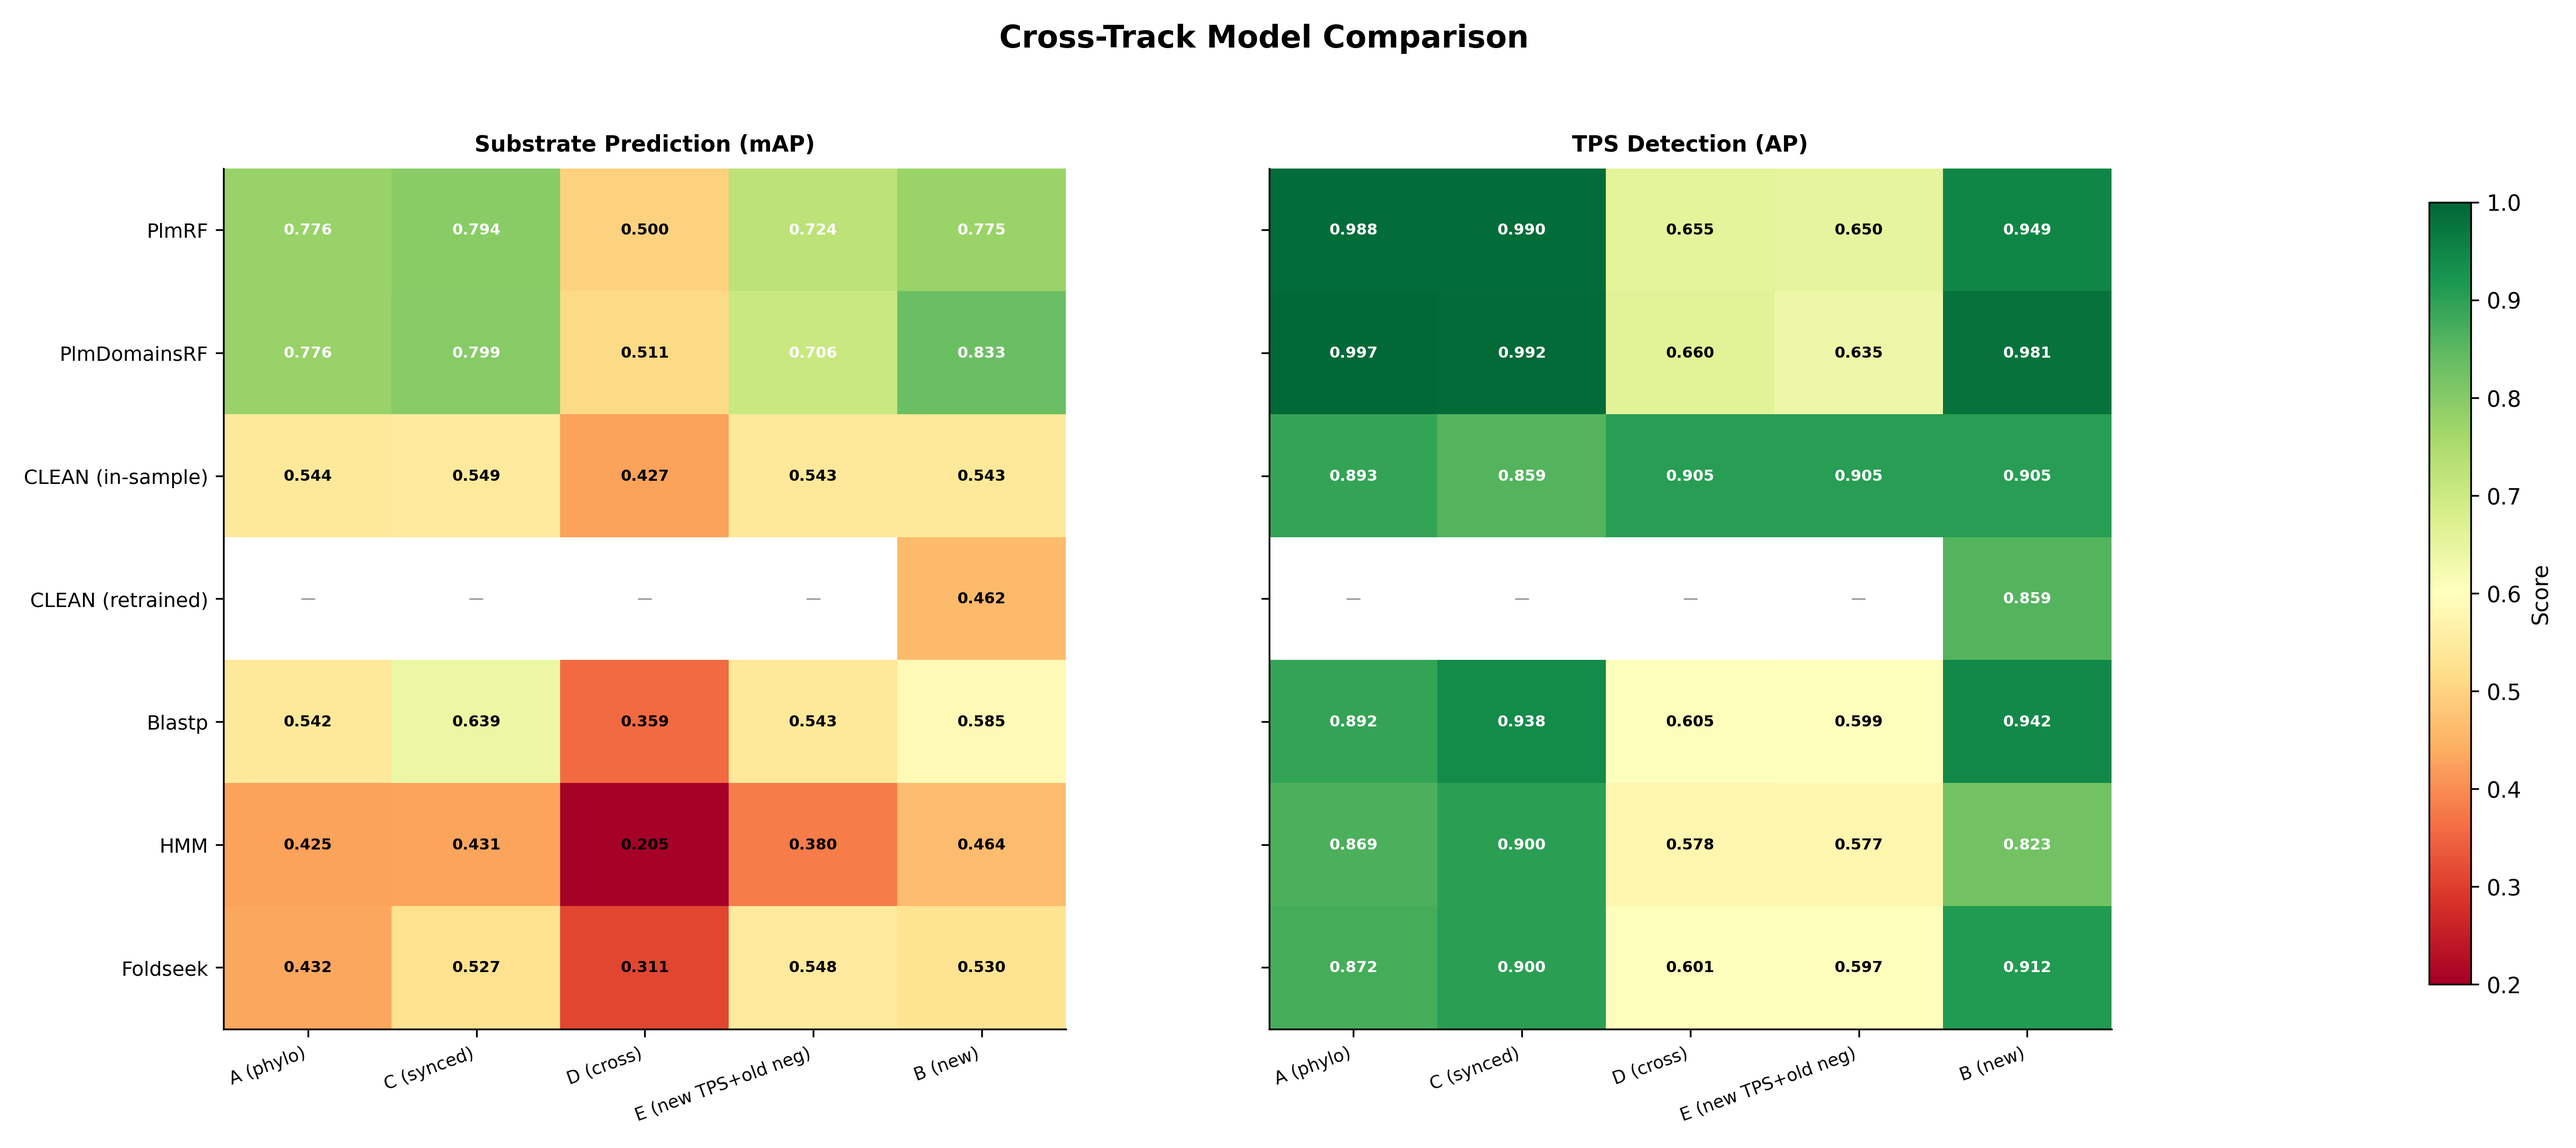
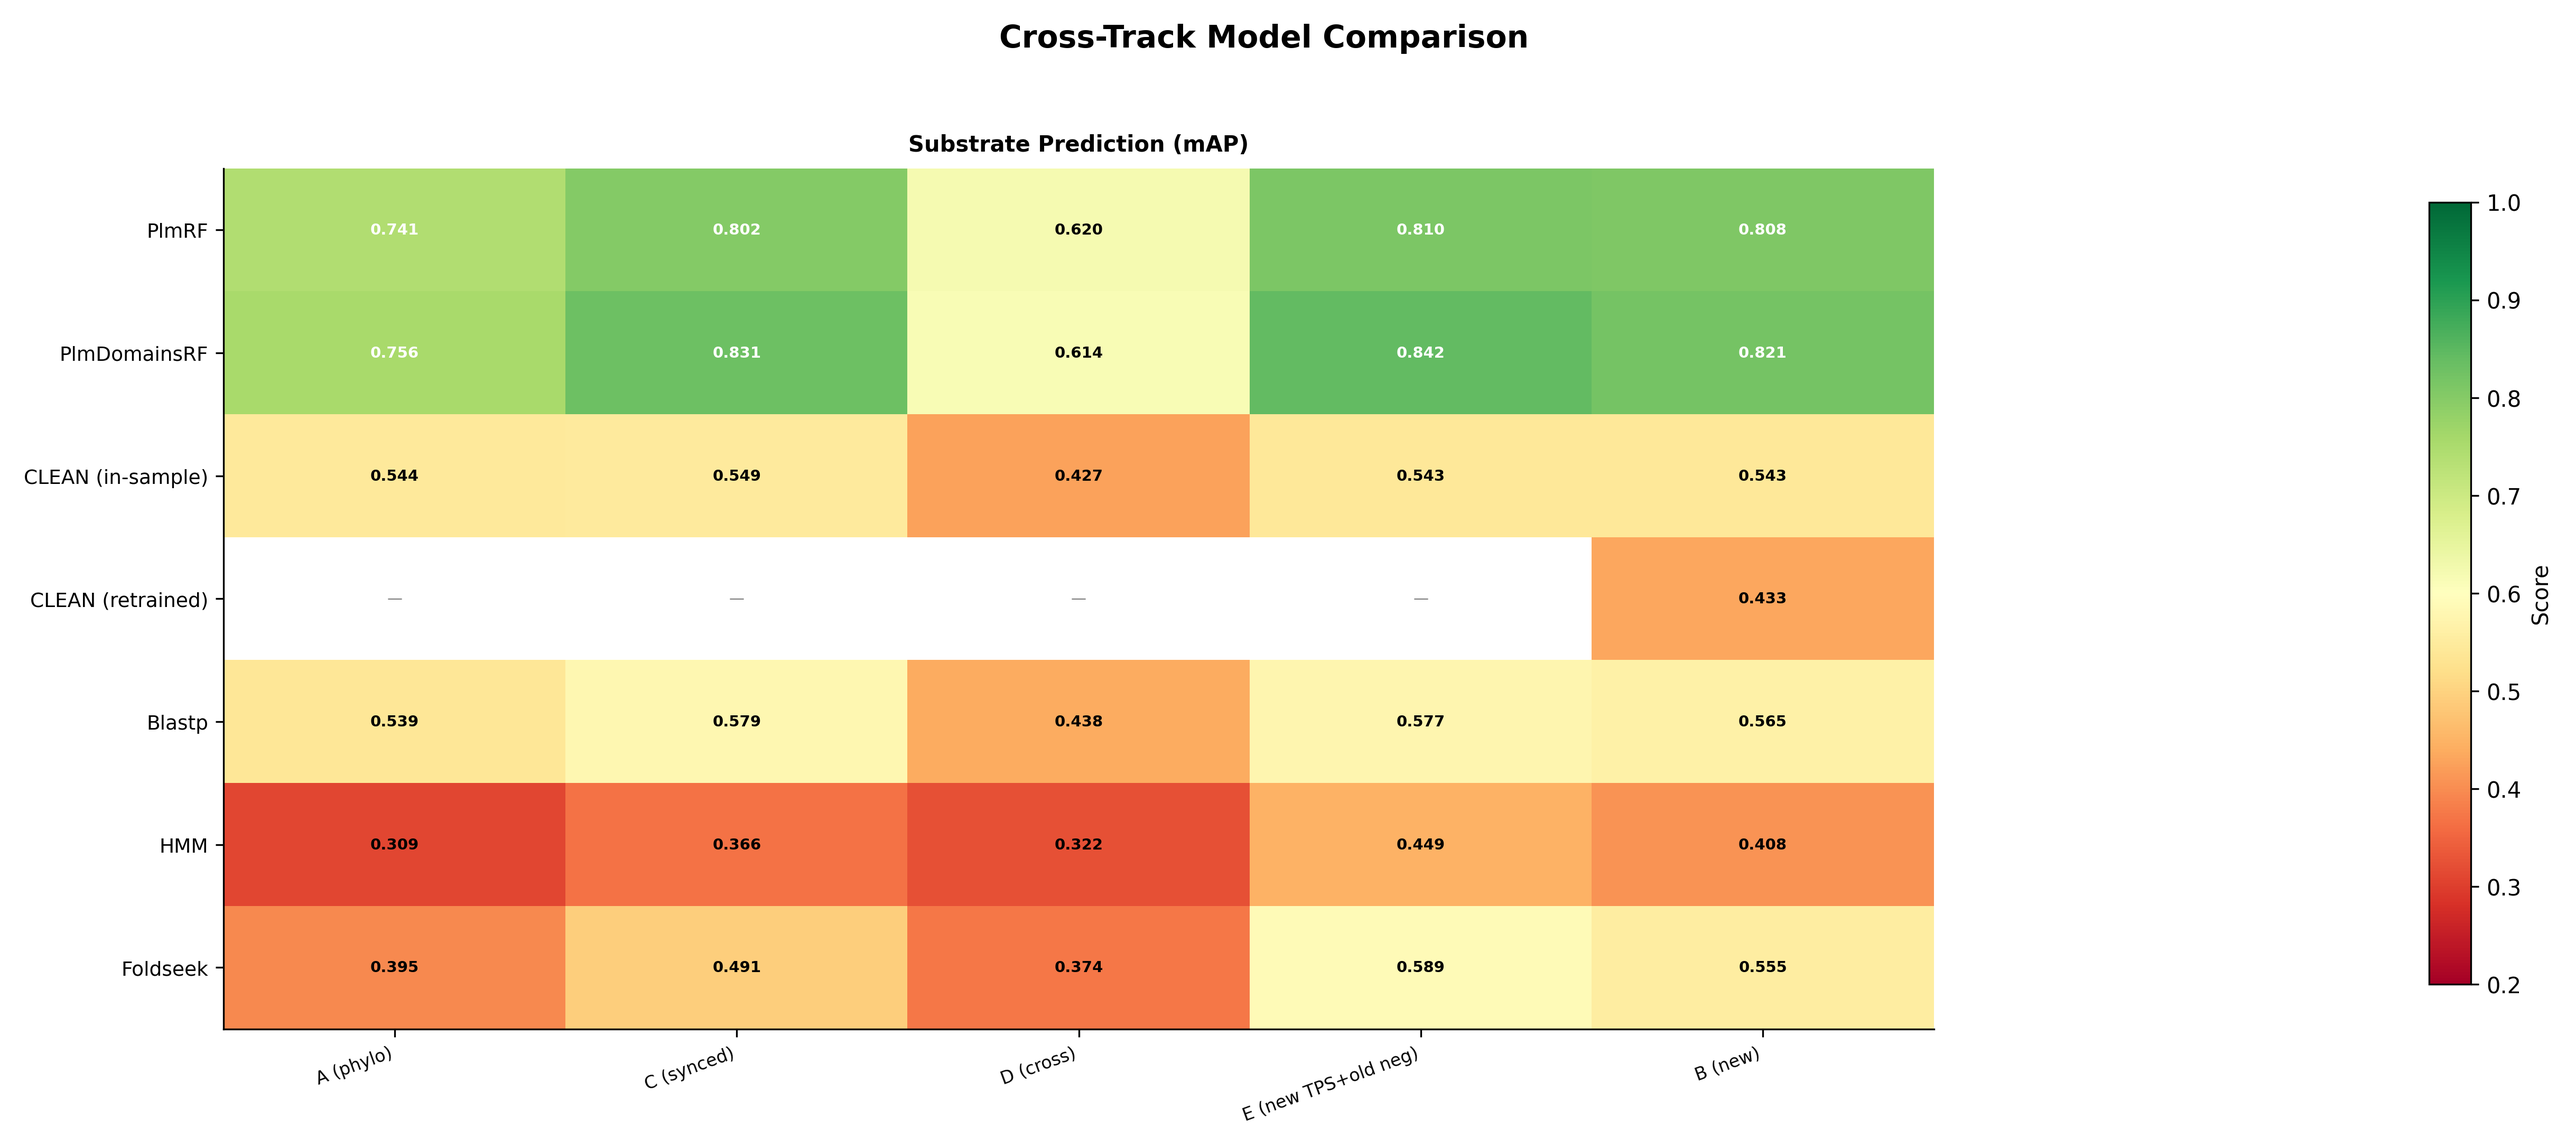
fix: remove TPS detection from heatmap, fix fold_agg priority
The TPS detection AP values need re-evaluation after the isTPS
label fix (stale evaluation CSVs were overriding corrected fold
results). Remove the AP panel from fig6 for now; keep only
substrate prediction mAP. Also fix merge logic so fold pickle
values take priority over stale CSVs.

Made-with: Cursor

diff --git a/scripts/plot_camera_ready.py b/scripts/plot_camera_ready.py
@@ -977,74 +977,49 @@ def fig6_combined_heatmap(
     agg: dict,
     outdir: Path,
 ) -> None:
-    """Side-by-side heatmaps: mAP and AP."""
+    """Substrate prediction (mAP) heatmap."""
     track_order = TRACK_ORDER
     models = [m for m in MODEL_ORDER if m in agg]
     n_tracks = len(track_order)
 
-    panel_defs: list[tuple[str, str]] = [
-        ("mAP", "Substrate Prediction (mAP)"),
-        ("AP", "TPS Detection (AP)"),
-    ]
-
-    n_cols = len(panel_defs)
-
-    fig, all_axes = plt.subplots(
+    fig, axes = plt.subplots(
         1,
-        n_cols + 1,
-        figsize=(
-            2.8 * n_tracks * n_cols / 2 + 3.5,
-            0.65 * len(models) + 2.5,
-        ),
-        gridspec_kw={
-            "width_ratios": [n_tracks] * n_cols + [0.35],
-            "wspace": 0.35,
-        },
+        2,
+        figsize=(2.8 * n_tracks + 3.5, 0.65 * len(models) + 2.5),
+        gridspec_kw={"width_ratios": [n_tracks, 0.35], "wspace": 0.35},
     )
-    all_axes = all_axes.reshape(1, -1)
+    ax = axes[0]
 
-    im = None
-    for panel_i, (metric, title) in enumerate(panel_defs):
-        ax = all_axes[0, panel_i]
+    matrix = np.full((len(models), n_tracks), np.nan)
+    for mi, m in enumerate(models):
+        for ti, t in enumerate(track_order):
+            v = agg[m].get(t, {}).get("mAP")
+            if v:
+                matrix[mi, ti] = v[0]
 
-        matrix = np.full((len(models), n_tracks), np.nan)
-        for mi, m in enumerate(models):
-            for ti, t in enumerate(track_order):
-                v = agg[m].get(t, {}).get(metric)
-                if v:
-                    matrix[mi, ti] = v[0]
+    im = ax.imshow(matrix, cmap="RdYlGn", aspect="auto", vmin=0.2, vmax=1)
+    ax.set_xticks(range(n_tracks))
+    ax.set_xticklabels(track_order, fontsize=8, rotation=20, ha="right")
+    ax.set_yticks(range(len(models)))
+    ax.set_yticklabels(models, fontsize=9)
 
-        im = ax.imshow(
-            matrix, cmap="RdYlGn", aspect="auto", vmin=0.2, vmax=1
-        )
-        ax.set_xticks(range(n_tracks))
-        ax.set_xticklabels(
-            track_order, fontsize=8, rotation=20, ha="right"
-        )
-        ax.set_yticks(range(len(models)))
-        show_y = panel_i == 0
-        ax.set_yticklabels(
-            models if show_y else [""] * len(models), fontsize=9
-        )
+    for i in range(len(models)):
+        for j in range(n_tracks):
+            v = matrix[i, j]
+            if np.isnan(v):
+                ax.text(
+                    j, i, "\u2014", ha="center", va="center",
+                    fontsize=7, color="gray",
+                )
+            else:
+                tc = "white" if v > 0.7 else "black"
+                ax.text(
+                    j, i, f"{v:.3f}", ha="center", va="center",
+                    fontsize=7, color=tc, fontweight="bold",
+                )
+    ax.set_title("Substrate Prediction (mAP)", fontsize=10, fontweight="bold", pad=8)
 
-        for i in range(len(models)):
-            for j in range(n_tracks):
-                v = matrix[i, j]
-                if np.isnan(v):
-                    ax.text(
-                        j, i, "\u2014", ha="center", va="center",
-                        fontsize=7, color="gray",
-                    )
-                else:
-                    tc = "white" if v > 0.7 else "black"
-                    ax.text(
-                        j, i, f"{v:.3f}", ha="center", va="center",
-                        fontsize=7, color=tc, fontweight="bold",
-                    )
-        ax.set_title(title, fontsize=10, fontweight="bold", pad=8)
-
-    # Shared colorbar in the rightmost column
-    all_axes[0, n_cols].set_visible(False)
+    axes[1].set_visible(False)
     cax = fig.add_axes([0.92, 0.15, 0.015, 0.7])
     if im is not None:
         fig.colorbar(im, cax=cax, label="Score")
@@ -1156,10 +1131,7 @@ def main() -> None:
     for model, tracks in fold_agg.items():
         for track, metrics in tracks.items():
             for metric, val in metrics.items():
-                if model not in agg or track not in agg.get(model, {}):
-                    agg.setdefault(model, {}).setdefault(track, {})[metric] = val
-                elif metric not in agg[model][track]:
-                    agg[model][track][metric] = val
+                agg.setdefault(model, {}).setdefault(track, {})[metric] = val
 
     # CLEAN (retrained) checkpoints exist only for Track B; drop stale
     # results from evaluation CSVs for other tracks.

diff --git a/docs/local_validation_protocol.md b/docs/local_validation_protocol.md
@@ -553,10 +553,9 @@ substrate prediction while PlmDomainsRF leads TPS detection.
 
 ![Cross-Track Model Comparison — Combined Heatmap](../outputs/figures/fig6_combined_heatmap.png)
 
-*Figure 6. Side-by-side heatmaps: substrate prediction mAP (left) and
-TPS detection AP (right). Dark green = strong, red = weak. CLEAN (retrained)
-results are shown only for Track B, where fold-specific checkpoints are
-available.*
+*Figure 6. Substrate prediction (mAP) heatmap across all models and tracks.
+Dark green = strong, red = weak. CLEAN (retrained) results are shown only for
+Track B, where fold-specific checkpoints are available.*
 
 The grouped bar charts below show the same data with error bars (standard error
 across 5 folds), making it easier to compare magnitudes and assess statistical
